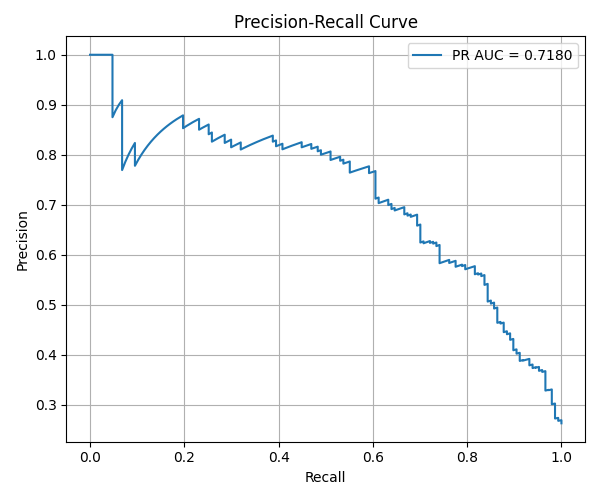
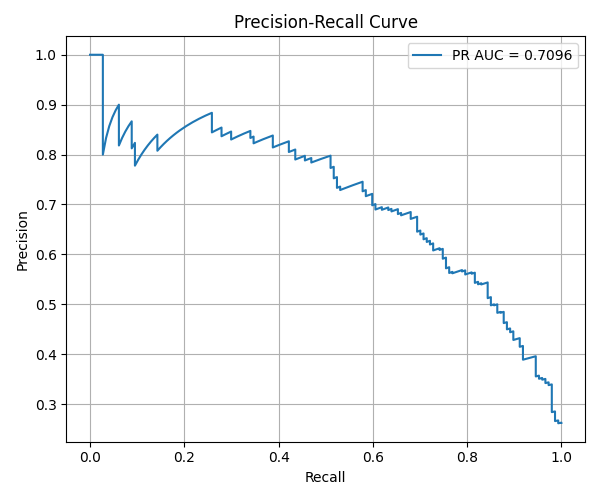
model is currently at around AUROC 0.84 and PRAUC 0.7 ps pire data downloaded

diff --git a/src/scripts/prepare_training_data.py b/src/scripts/prepare_training_data.py
@@ -29,7 +29,7 @@ with open("./data/intermediate_data/llps_data_ppmclab_bd.pkl", "rb") as f:
 class ODCNNDataSet(Dataset):
     def __init__(self, df, label_col):
         self.df = df.reset_index(drop=True)
-        self.feature_columns = [col for col in self.df.columns if "vec" in col]
+        self.feature_columns = [col for col in self.df.columns if "4_vec" in col]
         self.label = self.df[label_col].astype(int)
         self.max_len = self.get_max_len()
 
@@ -42,7 +42,7 @@ class ODCNNDataSet(Dataset):
         :rtype: int
         """
         arrays = [
-            torch.tensor(x) for col in df.columns if "vec" in col for x in df[col]
+            torch.tensor(x) for col in df.columns if "4_vec" in col for x in df[col]
         ]
         return max(arr.shape[0] for arr in arrays)
 
@@ -92,62 +92,86 @@ class NeuralNetwork(nn.Module):
         num_layers=1,
     ):
         super().__init__()
+        # Embedding layers
         self.embeddings = nn.ModuleList(
             [
                 nn.Embedding(num_categories, embedding_dim)
                 for num_categories in num_categories_per_channel
             ]
         )
-        self.conv = nn.Conv1d(
+
+        # First convolutional block
+        self.conv1 = nn.Conv1d(
             in_channels=embedding_dim * num_channels,
             out_channels=conv_out_channels,
             kernel_size=kernel_size,
+            padding=kernel_size // 2,  # Maintains sequence length
         )
-        # self.transformer = nn.TransformerEncoder(
-        #     nn.TransformerEncoderLayer(
-        #         d_model=conv_out_channels,
-        #         nhead=nhead,
-        #         dropout=dropout,
-        #         batch_first=True,
-        #     ),
-        #     num_layers=num_layers,
-        # )
+        self.pool1 = nn.MaxPool1d(kernel_size=2, stride=2)
+
+        # Second convolutional block
+        self.conv2 = nn.Conv1d(
+            in_channels=conv_out_channels,
+            out_channels=conv_out_channels * 2,  # Double channels
+            kernel_size=kernel_size,
+            padding=kernel_size // 2,
+        )
+        self.pool2 = nn.MaxPool1d(kernel_size=2, stride=2)
+
         self.relu = nn.ReLU()
         self.global_pool = nn.AdaptiveAvgPool1d(1)
         self.dropout = nn.Dropout(dropout)
-        self.fc = nn.Linear(conv_out_channels, num_classes)
+
+        # Enhanced classifier
+        self.fc1 = nn.Linear(conv_out_channels * 2, 128)  # Additional hidden layer
+        self.fc2 = nn.Linear(128, num_classes)
 
     def forward(self, x):
         batch_size, num_channels, seq_length = x.size()
+
+        # Embedding
         embedded_channels = []
         for i in range(num_channels):
             emb = self.embeddings[i](x[:, i])
             embedded_channels.append(emb)
         x_emb = torch.cat(embedded_channels, dim=-1)
         x_emb = x_emb.permute(0, 2, 1)
-        x = self.conv(x_emb)
+
+        # First conv block
+        x = self.conv1(x_emb)
         x = self.relu(x)
-        # x = x.permute(0, 2, 1)
-        # x = self.transformer(x)
-        # x = x.permute(0, 2, 1)
+        x = self.pool1(x)
+
+        # Second conv block
+        x = self.conv2(x)
+        x = self.relu(x)
+        x = self.pool2(x)
+
+        # Global pooling and classification
         x = self.global_pool(x)
         x = x.squeeze(-1)
         x = self.dropout(x)
-        x = self.fc(x)
+
+        # Enhanced classifier
+        x = self.fc1(x)
+        x = self.relu(x)
+        x = self.dropout(x)
+        x = self.fc2(x)
+
         return x
 
 
 # Create the model
 num_categories_per_channel = [
-    df[mapping].explode().nunique() + 1 for mapping in df.columns if "vec" in mapping
+    df[mapping].explode().nunique() + 1 for mapping in df.columns if "4_vec" in mapping
 ]
 
 model = NeuralNetwork(
     num_channels=len(num_categories_per_channel),
     num_categories_per_channel=num_categories_per_channel,
-    embedding_dim=10,
-    conv_out_channels=32,
-    kernel_size=15,
+    embedding_dim=20,
+    conv_out_channels=64,
+    kernel_size=10,
     num_classes=2,
 )
 

diff --git a/src/scripts/get_ps_pire_sequences.py b/src/scripts/get_ps_pire_sequences.py
@@ -1,0 +1,68 @@
+# import pickle
+# import sys
+# from io import StringIO
+#
+# import pandas as pd
+# import requests
+# from Bio import SeqIO
+#
+# df = pd.read_csv("./data/raw_data/ps_pire_data.csv")
+#
+# print(f"Data set contains {len(df)} sequences.")
+#
+#
+# def get_sequence(id):
+#
+#     requestURL = (
+#         f"https://www.ebi.ac.uk/proteins/api/proteins?offset=0&size=1&accession={id}"
+#     )
+#     r = requests.get(requestURL, headers={"Accept": "text/x-fasta"})
+#
+#     if not r.ok:
+#         r.raise_for_status()
+#         sys.exit()
+#
+#     responseBody = r.text
+#     fasta = SeqIO.read(StringIO(responseBody), "fasta")
+#     return fasta.seq
+#
+#
+# df["seq"] = df["UniprotEntry"].apply(get_sequence)
+#
+# df["seq"] = df["UniprotEntry"].apply(get_sequence)
+#
+# print(f"{len(df)} sequences were downloaded.")
+#
+# with open("./data/intermediate_data/ps_pire_data.pkl", "wb") as f:
+#     pickle.dump(df, f)
+
+
+import json
+import sys
+
+import requests
+
+params = {
+    "query": "accession:O95613 OR accession:P08047",
+    "fields": ["sequence"],
+    "sort": "accession desc",
+    "size": "100",
+}
+headers = {"accept": "application/json"}
+base_url = "https://rest.uniprot.org/uniprotkb/search"
+
+response = requests.get(base_url, headers=headers, params=params)
+if not response.ok:
+    response.raise_for_status()
+    sys.exit()
+
+data = response.json()
+
+for item in data["results"]:
+    print(item["primaryAccession"])
+# print(data["results"][0]["primaryAccession"])
+# sequence = data["results"][0]["sequence"]["value"]
+# print(sequence)
+# print(data["results"][1]["primaryAccession"])
+# sequence = data["results"][1]["sequence"]["value"]
+# print(sequence)

diff --git a/src/scripts/prepare_raw_data.py b/src/scripts/prepare_raw_data.py
@@ -2,19 +2,28 @@ import os
 import pickle
 import sys
 
+import matplotlib.pyplot as plt
+import numpy as np
 import pandas as pd
+import seaborn as sns
 
 
 def main():
     df = pd.read_csv("./data/raw_data/llps_data_ppmclab.tsv", delimiter="\t")
-    df = df[df["Full.seq"].apply(len) <= 2000].copy()
+    print(f"Size of the whole data set: {len(df)} proteins.")
+
+    sns.kdeplot(df["Full.seq"].apply(len))
+    plt.title("Density of the sequence length")
+    plt.xlabel("Sequence Length in residues")
+    plt.ylabel("Density")
+    plt.savefig("./results/plots/llps_data_ppmclab_sequence_length_density.png")
+    df = df[df["Full.seq"].apply(len) <= 2700].copy()
 
     df.loc[~df["Datasets"].isin(["NP", "ND"]), "PS"] = 1
     df.loc[df["Datasets"].isin(["NP", "ND"]), "PS"] = 0
 
     filtered_df = df[~df["Full.seq"].str.contains("X|U", na=False)]
 
-    print(f"Size of the whole data set: {len(df)} proteins.")
     print(f"Size of the filtered data set: {len(filtered_df)} proteins.")
     print("Positive Samples:")
     print(len(df.loc[~df["Datasets"].isin(["NP", "ND"]), "PS"]))
